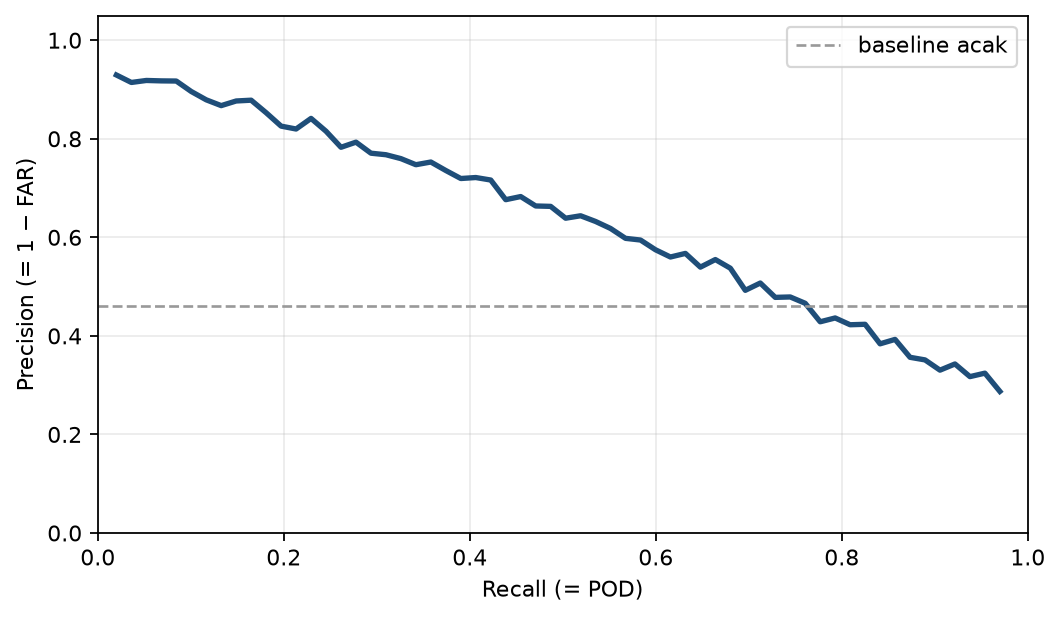
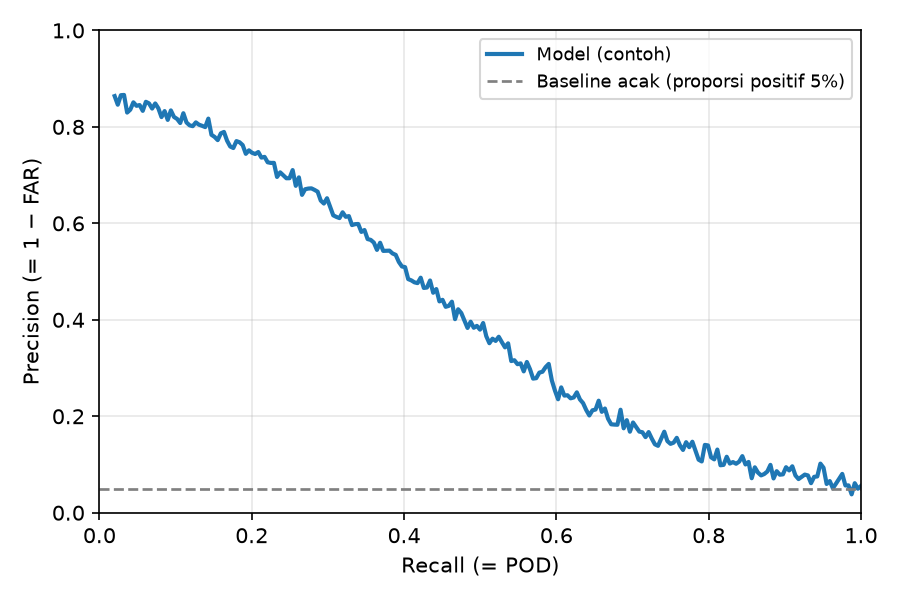
Perbaikan kritik-2: baseline pohon, peringatan SMOTE deret waktu, baseline kurva PR + Kode 9.4, catatan GPU, resep eccodes, sel kurva PR di notebook

diff --git a/manuscripts/ch-09-studi-kasus-curah-hujan-terbuka/master.md b/manuscripts/ch-09-studi-kasus-curah-hujan-terbuka/master.md
@@ -203,6 +203,12 @@ Catatan: `class_weight` mengubah distribusi yang "dilihat" model, jadi angka POD
 harus dievaluasi dengan data asli (tidak seimbang) - jangan mengevaluasi pada data yang
 sudah di-resample.
 
+Peringatan khusus deret waktu: **hindari *oversampling* acak (mis. SMOTE)** pada data
+hujan harian. Menyalin atau mensintesis contoh secara acak merusak kontinuitas temporal
+(window "baru" bisa berisi hari yang sama dari masa depan) dan membuat evaluasi bocor.
+Untuk deret waktu, `class_weight` (Bab 3 §3.6) dan pergeseran *threshold* (Bab 9.4)
+jauh lebih aman daripada *resampling*.
+
 ## 9.4 Verifikasi Operasional: CSI/POD/FAR dan Threshold
 
 Inilah bagian yang membedakan bab ini dengan tutorial ML umum. Setelah probabilitas
@@ -253,13 +259,40 @@ Pilih **precision-recall curve**:
 - Sumbu x: recall (= POD); sumbu y: precision (= 1 - FAR).
 - Model ideal: kurva mendekati pojok kanan-atas (recall tinggi, precision tinggi).
 - Luas di bawah (AUPRC) lebih informatif daripada AUC untuk kelas langka.
+- **Baseline kurva PR bukan 0.5** (tidak seperti ROC/AUC): garis acak berada di
+  proporsi kelas positif dalam data (mis. 5% hujan lebat). Model lebih baik daripada
+  menebak jika kurvanya berada **di atas** garis baseline itu (Gambar 9.1).
 
 ![Gambar 9.1 - Precision-recall curve](figures/fig-9-1-precision-recall.png)
 
-**Gambar 9.1**: Precision-recall curve untuk deteksi hujan lebat (ilustratif).
+**Gambar 9.1**: Precision-recall curve untuk deteksi hujan lebat (ilustratif);
+garis putus-putus menunjukkan *baseline* acak (proporsi kelas positif).
 
-Visualisasi pada Gambar 9.1 (dibuat di notebook) melengkapi Tabel 9.3 dan menjadi
-argumen visual mengapa threshold tertentu dipilih.
+Visualisasi semacam Gambar 9.1 melengkapi Tabel 9.3 dan menjadi
+argumen visual mengapa threshold tertentu dipilih. Untuk data Anda sendiri, hitung
+kurva dengan `sklearn.metrics.precision_recall_curve`:
+
+**Kode 9.4 - Menggambar kurva precision-recall dengan baseline acak.**
+
+```python
+from sklearn.metrics import precision_recall_curve
+import matplotlib.pyplot as plt
+
+prec, rec, _ = precision_recall_curve(y_true, prob)  # y_true: label biner (lebat)
+base = float(y_true.mean())                          # baseline = proporsi kelas positif
+
+fig, ax = plt.subplots(figsize=(6, 4))
+ax.plot(rec, prec, lw=2, label="Model")
+ax.axhline(base, color="gray", ls="--", lw=1.3,
+           label=f"Baseline acak (proporsi positif {base:.0%})")
+ax.set_xlabel("Recall (= POD)")
+ax.set_ylabel("Precision (= 1 - FAR)")
+ax.set_xlim(0, 1); ax.set_ylim(0, 1)
+ax.grid(alpha=0.3)
+ax.legend(loc="best")
+plt.tight_layout()
+plt.show()
+```
 
 Persamaan yang dipakai (dari Tabel 5.3 Bab 5, pedoman WMO [7]):
 

diff --git a/manuscripts/ch-01-pengantar-deep-learning-meteorologi/master.md b/manuscripts/ch-01-pengantar-deep-learning-meteorologi/master.md
@@ -207,6 +207,12 @@ seluruh buku:
    learning* hanya layak jika **mengalahkan *baseline*** dengan data yang cukup Prinsip ini
   menjadi tulang punggung Bab 7-9. Jika model sederhana sudah melebihi kebutuhan, tidak
   ada alasan memperkenalkan kompleksitas.
+- **Ingat *baseline* non-linear: model berbasis pohon.** Untuk data tabular dan deret
+  waktu, algoritma seperti **Random Forest** atau **XGBoost** sering mengalahkan jaringan
+  saraf kecil dari segi kecepatan, akurasi, dan keterbacaan. Buku ini fokus pada jaringan
+  saraf, tetapi praktisi wajib tahu bahwa pohon bisa menjadi pembanding yang sangat kuat
+  sebelum beralih ke *deep learning* - yang benar-benar unggul saat data sangat masif
+  atau melibatkan data spasial (citra radar/satelit, grid).
 - **Perhatikan ukuran data.** Jaringan saraf besar membutuhkan banyak data untuk belajar.
   Untuk deret waktu stasiun dengan puluhan ribu pengamatan, model sekuensial (*sequence*)
   seperti LSTM (Bab 7) adalah pilihan yang masuk akal, tetapi jangan langsung melompat

diff --git a/manuscripts/ch-06-data-meteorologi/master.md b/manuscripts/ch-06-data-meteorologi/master.md
@@ -212,7 +212,16 @@ Untuk GRIB (prakiraan model operasional), dua jalur umum: xarray dengan *engine*
 untuk eksplorasi cepat, atau `wgrib2` untuk ekstraksi presisi pada skala besar. Catatan:
 engine `cfgrib` (beserta pustaka `eccodes` di belakangnya) perlu diinstal terpisah dari
 xarray - `pip install cfgrib` biasanya mencukupi di Colab, tetapi kegagalan instalasi
-pada beberapa sistem sering menjadi titik hambatan pertama pembaca.
+pada beberapa sistem sering menjadi titik hambatan pertama pembaca. Jika *pip* saja
+gagal, resep yang biasa berhasil di Colab: instal dulu pustaka sistem `libeccodes0`,
+baru `cfgrib`:
+
+```python
+!apt-get install -y libeccodes0
+!pip install cfgrib
+```
+
+(Alternatif: `!pip install cfgrib eccodes`; coba resep *apt* bila instalasi *pip* gagal.)
 
 **Kode 6.2 - Membaca GRIB dengan xarray + engine cfgrib.**
 

diff --git a/back-matter/00-lampiran.md b/back-matter/00-lampiran.md
@@ -12,6 +12,10 @@ Konvensi yang dipakai di seluruh notebook:
 
 - **`seed` tetap:** `np.random.seed(42)` dan `tf.random.set_seed(42)` di awal
   setiap notebook agar hasil dapat diulang.
+- **Catatan GPU:** meskipun *seed* sudah diatur, eksekusi pada GPU (terutama operasi
+  reduksi di balik cuDNN) kadang bersifat *non-deterministic*. Perbedaan kecil pada
+  angka desimal terakhir (mis. sekitar 0.0001 pada MAE) antar-run di Colab adalah
+  wajar dan bukan tanda kesalahan.
 - **Versi library:** versi TensorFlow/Keras yang digunakan tercatat di notebook
   (biasanya di sel pertama) dan di metadata *release* Zenodo.
 - **Python:** 3.10+; paket inti: `tensorflow`, `numpy`, `pandas`,

diff --git a/manuscripts/ch-03-klasifikasi-neural-network/master.md b/manuscripts/ch-03-klasifikasi-neural-network/master.md
@@ -310,7 +310,8 @@ operasional dikeluarkan WMO [4]. Di bab ini kita cukup paham mengapa akurasi tid
 3. **Pemberian bobot kelas** - `class_weight` di Keras memberi penalti lebih besar untuk
    kesalahan pada kelas minoritas (contoh dalam notebook).
 4. **Resampling** - undersampling kelas mayoritas atau oversampling minoritas (konsekuensi:
-   mengubah distribusi; diskusi di Bab 5).
+   mengubah distribusi; diskusi di Bab 5). **Hati-hati pada deret waktu:** oversampling
+   acak (mis. SMOTE) merusak urutan temporal - lebih aman pakai `class_weight` (Bab 9).
 
 ### Contoh numerik lengkap precision/recall
 

diff --git a/REGISTER.md b/REGISTER.md
@@ -177,6 +177,7 @@
 | Kode | Kode 9.1 | Verifikasi CSI/POD/FAR di threshold | — | §9.4 |
 | Kode | Kode 9.2 | Permutation importance | — | §9.6 |
 | Kode | Kode 9.3 | Crosstab kategori | — | §9.7 |
+| Kode | Kode 9.4 | Gambar kurva precision-recall + baseline acak | — | §9.4 |
 
 ### Bab 10 — Operasional & Arah Riset
 
